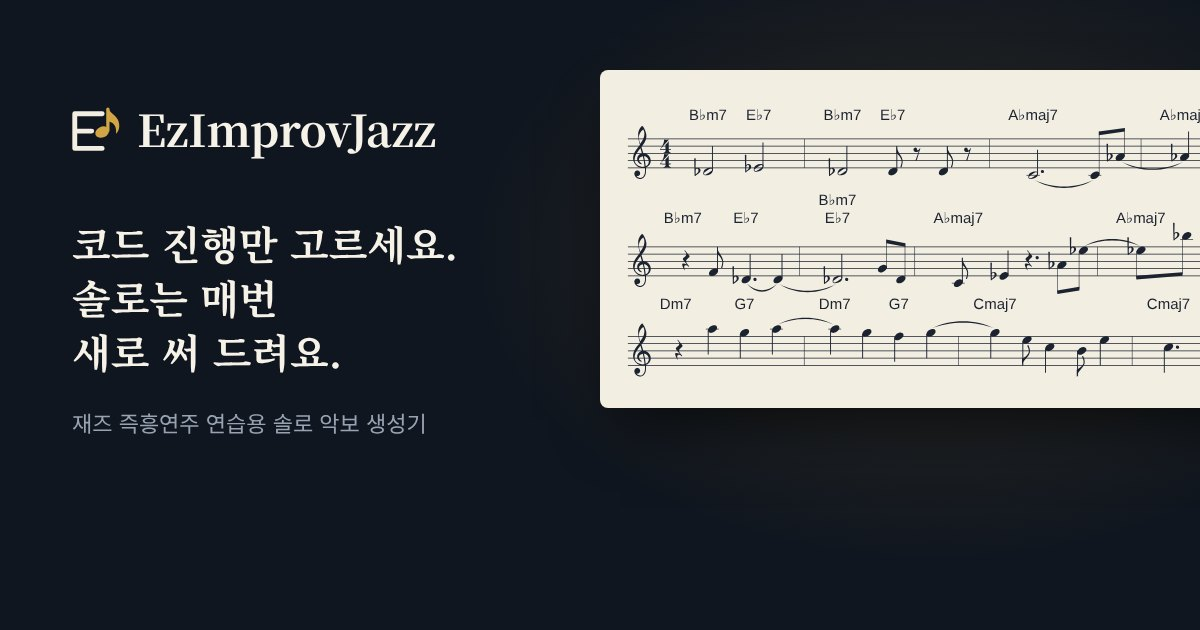
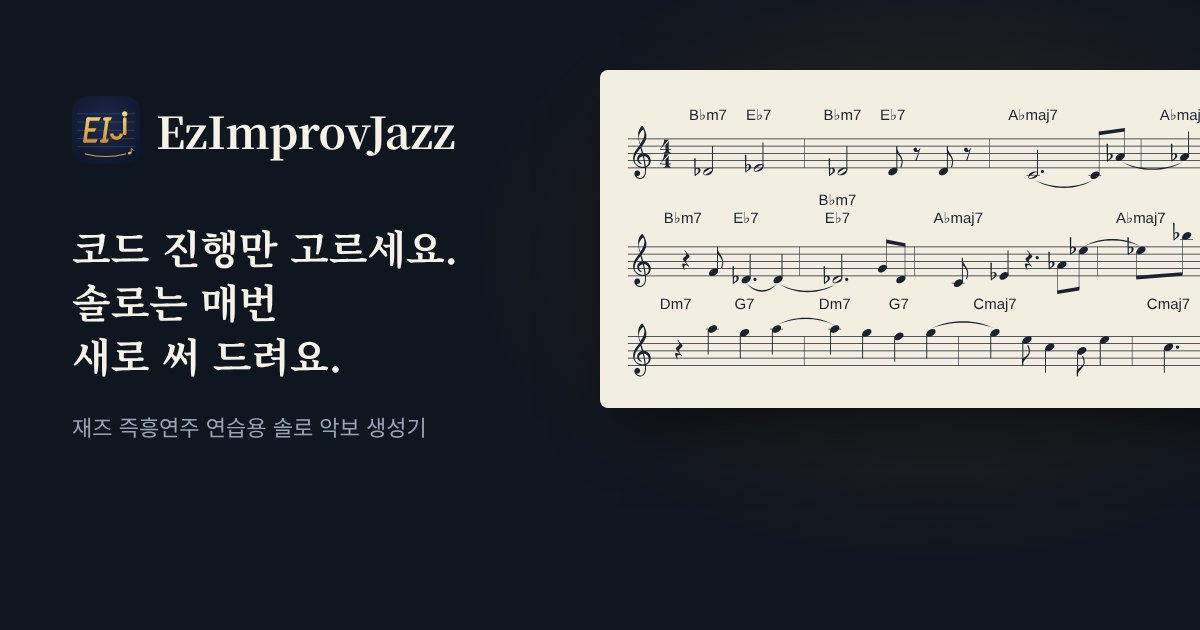
v0.58.0: 새 심볼(사용자 시안 다듬음) · 첫 화면 데모 3번 활용 스케일로
[무엇을]
- app/brand/mark.svg·app/pwa/icon.svg: 남색+놋쇠 EIJ 시안에서 E·I 8° 기울임·사선 끝, 오선 5줄 또렷하게, 작은 음표 묶음(.nt)
- 앱 머리·로딩(음표 튐)·홈 위/아래/로딩·아이콘 PNG·og.jpg 교체, 인라인 SVG 그라디언트 id 나눔
- 데모 3번 가이드톤 라인(같은 음 반복 45%) → 활용 스케일(33001)

[왜]
- 사용자: 가져온 심볼로 바꾸되 E·I에 각도·모양, 오선 더 두드러지게 / 데모 3번 GGGG만 나와 별로

[확인]
- node tools/test.js 4,752개 위반 0·오류 0 (엔진 변경 없음)
- test_landing 통과, 홈·앱·로딩·og 스크린샷 확인

Claude-Session: https://claude.ai/code/session_01MYZHQ4B8Yh6kKJJ5uNbiFu

Changed region(s): [[0.0617, 0.3619, 0.37, 0.6032], [0.0617, 0.1508, 0.4008, 0.2714], [0.0617, 0.6333, 0.37, 0.6937]]

diff --git a/index.html b/index.html
@@ -4,7 +4,7 @@
 <meta charset="UTF-8">
 <meta name="viewport" content="width=device-width, initial-scale=1.0, viewport-fit=cover">
 <!-- v0.55.0 화면 테마는 잠시 닫음(사용자 요청) — 다시 열 때 THEME_ON=true + 여기서 저장된 테마를 그리기 전에 적용 -->
-<title>EzImprovJazz v0.57.0 — 즉흥 재즈 솔로 연습 악보</title>
+<title>EzImprovJazz v0.58.0 — 즉흥 재즈 솔로 연습 악보</title>
 <link rel="preconnect" href="https://fonts.googleapis.com">
 <link rel="preconnect" href="https://fonts.gstatic.com" crossorigin>
 <link href="https://fonts.googleapis.com/css2?family=Gowun+Batang:wght@400;700&family=Gowun+Dodum&family=IBM+Plex+Sans+KR:wght@300;400;500;600&family=JetBrains+Mono:wght@400;600&display=swap" rel="stylesheet">
@@ -661,8 +661,7 @@ header.site .sub{font-size:13.5px;max-width:none}
 h1.brand{font-family:'Gowun Batang',serif;letter-spacing:-.01em}
 .brandlink{display:inline-flex;align-items:center;gap:.42em;color:inherit;text-decoration:none}
 a.brandlink[href]:hover span{text-decoration:underline;text-decoration-color:var(--brass);text-underline-offset:.18em}
-.bmark{height:1.05em;width:auto;flex:none;transform:translateY(-.04em)}
-.bmark g,.bootmark g{stroke:var(--hi)}
+.bmark{height:1.2em;width:auto;flex:none;transform:translateY(-.02em)}
 /* v0.57 홈페이지 연주 데모(app/#embed-demo) — 악보 한 장만, 재생 + 다른 솔로 */
 .embctl{display:none}
 html.embed body{background:var(--paper)}
@@ -676,9 +675,9 @@ html.embed #fsPlay{min-width:48px;min-height:36px;font-size:15px;background:var(
 .boot{position:fixed;inset:0;z-index:1000;display:flex;align-items:center;justify-content:center;background:var(--bg);transition:opacity .45s ease,visibility .45s}
 .boot.done{opacity:0;visibility:hidden}
 .bootin{display:flex;flex-direction:column;align-items:center;gap:14px;color:var(--hi)}
-.bootmark{width:76px;height:auto}
-.bootmark ellipse,.bootmark rect,.bootmark g~path{transform-box:view-box;transform-origin:183px 134px;animation:bootswing 1.1s ease-in-out infinite alternate}
-@keyframes bootswing{from{transform:rotate(-5deg)}to{transform:rotate(5deg)}}
+.bootmark{width:84px;height:auto}
+.bootmark .nt{animation:bootswing .55s ease-in-out infinite alternate}
+@keyframes bootswing{from{transform:translateY(0)}to{transform:translateY(-14px)}}
 .bootin b{font-family:'Gowun Batang',serif;font-size:22px;font-weight:700;letter-spacing:-.01em}
 .bootbar{width:168px;height:3px;border-radius:2px;background:rgba(209,165,69,.18);overflow:hidden}
 .bootbar i{display:block;width:40%;height:100%;border-radius:2px;background:var(--brass);animation:bootbar 1.2s ease-in-out infinite}
@@ -1244,13 +1243,13 @@ svg .abcjs-tempo{cursor:pointer}
 </style>
 </head>
 <body>
-<div class="boot" id="boot" role="status" aria-live="polite"><div class="bootin"><svg class="bootmark" aria-hidden="true" xmlns="http://www.w3.org/2000/svg" viewBox="-2 -32 300 282"><g stroke="#f3eee2" stroke-width="30" stroke-linecap="round"><path d="M15 22H183M15 128H119M15 234H183M15 22V234" fill="none"/></g><ellipse cx="183" cy="134" rx="44" ry="33" transform="rotate(-24 183 134)" fill="#d1a545"/><rect x="208" y="-16" width="20" height="150" rx="10" fill="#d1a545"/><path d="M218 -14c18 40 72 50 70 112-1 22-10 36-20 46 5-46-16-72-50-76z" fill="#d1a545"/></svg><b>EzImprovJazz</b><div class="bootbar"><i></i></div><p>악보 엔진을 준비하는 중…</p></div></div>
+<div class="boot" id="boot" role="status" aria-live="polite"><div class="bootin"><svg class="bootmark" aria-hidden="true" xmlns="http://www.w3.org/2000/svg" viewBox="0 0 512 512"><defs><linearGradient id="brassB" x1="0" y1="112" x2="0" y2="362" gradientUnits="userSpaceOnUse"><stop offset="0" stop-color="#f8d98a"/><stop offset="0.5" stop-color="#e9b44c"/><stop offset="1" stop-color="#c98a2e"/></linearGradient><radialGradient id="glowB" cx="0.5" cy="0.42" r="0.75"><stop offset="0" stop-color="#1d2a4d"/><stop offset="1" stop-color="#0d1428"/></radialGradient></defs><rect width="512" height="512" rx="112" fill="url(#glowB)"/><g stroke="#4a5d8c" stroke-width="4" stroke-linecap="round" opacity=".85"><line x1="40" y1="134" x2="472" y2="134"/><line x1="40" y1="196" x2="472" y2="196"/><line x1="40" y1="258" x2="472" y2="258"/><line x1="40" y1="320" x2="472" y2="320"/><line x1="40" y1="382" x2="472" y2="382"/></g><g fill="url(#brassB)"><g transform="translate(36 0) skewX(-8)"><rect x="96" y="160" width="26" height="192" rx="13"/><path d="M109.0,160H204L194,186H109.0A13.0,13.0 0 0 1 109.0,160Z"/><path d="M109.0,243H182L172,269H109.0A13.0,13.0 0 0 1 109.0,243Z"/><path d="M109.0,326H204L194,352H109.0A13.0,13.0 0 0 1 109.0,326Z"/></g><g transform="translate(36 0) skewX(-8)"><rect x="240" y="160" width="26" height="192" rx="13"/><path d="M222,173a13,13 0 0 1 13,-13H288L278,186H235a13,13 0 0 1 -13,-13Z"/><path d="M222,339a13,13 0 0 1 13,-13H288L278,352H235a13,13 0 0 1 -13,-13Z"/></g><rect x="384" y="160" width="26" height="136" rx="13"/><path d="M384,282 a49,49 0 0 1 -98,0 l26,0 a23,23 0 0 0 46,0 z"/><circle cx="397" cy="134" r="20"/></g><path d="M100,436 Q256,474 404,436" stroke="#e9b44c" stroke-width="8" fill="none" stroke-linecap="round" opacity="0.9"/><g class="nt"><ellipse cx="434" cy="430" rx="13" ry="10" fill="#e9b44c" transform="rotate(-18 434 430)"/><path d="M446,428 V396 Q460,400 465,409" stroke="#e9b44c" stroke-width="6" fill="none" stroke-linecap="round"/></g></svg><b>EzImprovJazz</b><div class="bootbar"><i></i></div><p>악보 엔진을 준비하는 중…</p></div></div>
 <script>setTimeout(function(){var b=document.getElementById('boot');if(b)b.classList.add('done')},8000)/* v0.56 로딩 화면 안전장치 — 무슨 일이 있어도 8초 뒤에는 걷는다 */</script>
 <header class="site">
   <div class="wrap">
-    <div class="eyebrow">즉흥 재즈 솔로 연습 · 베타 v0.57.0<button class="instbtn" id="btnInstall" hidden>📲 앱으로 설치</button></div>
+    <div class="eyebrow">즉흥 재즈 솔로 연습 · 베타 v0.58.0<button class="instbtn" id="btnInstall" hidden>📲 앱으로 설치</button></div>
     <div class="insthelp" id="instHelp" hidden></div>
-    <h1 class="brand"><a class="brandlink" id="brandLink"><svg class="bmark" aria-hidden="true" xmlns="http://www.w3.org/2000/svg" viewBox="-2 -32 300 282"><g stroke="#f3eee2" stroke-width="30" stroke-linecap="round"><path d="M15 22H183M15 128H119M15 234H183M15 22V234" fill="none"/></g><ellipse cx="183" cy="134" rx="44" ry="33" transform="rotate(-24 183 134)" fill="#d1a545"/><rect x="208" y="-16" width="20" height="150" rx="10" fill="#d1a545"/><path d="M218 -14c18 40 72 50 70 112-1 22-10 36-20 46 5-46-16-72-50-76z" fill="#d1a545"/></svg><span>EzImprovJazz</span></a></h1>
+    <h1 class="brand"><a class="brandlink" id="brandLink"><svg class="bmark" aria-hidden="true" xmlns="http://www.w3.org/2000/svg" viewBox="0 0 512 512"><defs><linearGradient id="brassH" x1="0" y1="112" x2="0" y2="362" gradientUnits="userSpaceOnUse"><stop offset="0" stop-color="#f8d98a"/><stop offset="0.5" stop-color="#e9b44c"/><stop offset="1" stop-color="#c98a2e"/></linearGradient><radialGradient id="glowH" cx="0.5" cy="0.42" r="0.75"><stop offset="0" stop-color="#1d2a4d"/><stop offset="1" stop-color="#0d1428"/></radialGradient></defs><rect width="512" height="512" rx="112" fill="url(#glowH)"/><g stroke="#4a5d8c" stroke-width="4" stroke-linecap="round" opacity=".85"><line x1="40" y1="134" x2="472" y2="134"/><line x1="40" y1="196" x2="472" y2="196"/><line x1="40" y1="258" x2="472" y2="258"/><line x1="40" y1="320" x2="472" y2="320"/><line x1="40" y1="382" x2="472" y2="382"/></g><g fill="url(#brassH)"><g transform="translate(36 0) skewX(-8)"><rect x="96" y="160" width="26" height="192" rx="13"/><path d="M109.0,160H204L194,186H109.0A13.0,13.0 0 0 1 109.0,160Z"/><path d="M109.0,243H182L172,269H109.0A13.0,13.0 0 0 1 109.0,243Z"/><path d="M109.0,326H204L194,352H109.0A13.0,13.0 0 0 1 109.0,326Z"/></g><g transform="translate(36 0) skewX(-8)"><rect x="240" y="160" width="26" height="192" rx="13"/><path d="M222,173a13,13 0 0 1 13,-13H288L278,186H235a13,13 0 0 1 -13,-13Z"/><path d="M222,339a13,13 0 0 1 13,-13H288L278,352H235a13,13 0 0 1 -13,-13Z"/></g><rect x="384" y="160" width="26" height="136" rx="13"/><path d="M384,282 a49,49 0 0 1 -98,0 l26,0 a23,23 0 0 0 46,0 z"/><circle cx="397" cy="134" r="20"/></g><path d="M100,436 Q256,474 404,436" stroke="#e9b44c" stroke-width="8" fill="none" stroke-linecap="round" opacity="0.9"/><g class="nt"><ellipse cx="434" cy="430" rx="13" ry="10" fill="#e9b44c" transform="rotate(-18 434 430)"/><path d="M446,428 V396 Q460,400 465,409" stroke="#e9b44c" stroke-width="6" fill="none" stroke-linecap="round"/></g></svg><span>EzImprovJazz</span></a></h1>
     <p class="sub">재즈 스탠더드 <b style="color:var(--brass);font-weight:500">261곡</b>의 코드 진행 위에 매번 새로운 연습용 솔로를 만듭니다. 곡 검색 · 아티스트 스타일 · 반음 단위 조 변환을 지원합니다.</p>
   </div>
 </header>
@@ -6322,9 +6321,10 @@ function syncNow(){
 gen();syncNow();syncPlay();
 /* ── v0.57 홈페이지 연주 데모 — 홈 첫 화면 iframe(app/#embed-demo) 안에서 돈다 ──
    Tea for Two(퍼블릭 도메인 · 코드 진행만) 120 BPM 1코러스, 반주 포함. 데모 5개(난이도 × 연습 주제, 시드 고정)를 넘겨 보고,
+   v0.58: 3번 가이드톤 라인 → 활용 스케일(가이드톤은 같은 음 되풀이가 45%라 첫인상에 맞지 않음 — 엔진 과제로 남김),
    한 곡이 끝나면 다음 데모로 이어서 재생(BGM처럼). 기기 저장소는 건드리지 않는다(설정은 저장되지 않음 · 계정 동기화 끔) */
 const EMB_SONG='pd-tea-for-two',EMB_BPM=120,EMB_TONE='tenor',EMB_GAP_MS=900;
-const EMB_DEMOS=[{d:1,tp:'ct',sd:12001},{d:2,tp:'auto',sd:22002},{d:2,tp:'gt',sd:32003},{d:2,tp:'penta',sd:42004},{d:3,tp:'auto',sd:52005}];
+const EMB_DEMOS=[{d:1,tp:'ct',sd:12001},{d:2,tp:'auto',sd:22002},{d:2,tp:'dom',sd:33001},{d:2,tp:'penta',sd:42004},{d:3,tp:'auto',sd:52005}];
 const EMB_TP_L={auto:'자유',ct:'코드톤 라인',gt:'가이드톤 라인',penta:'펜타토닉',scale:'기본 스케일',dom:'활용 스케일'};
 if(location.hash==='#embed-demo'&&SONGDB[EMB_SONG]){
   document.documentElement.classList.add('embed');

diff --git a/app/template.html b/app/template.html
@@ -5,7 +5,7 @@
 <meta name="viewport" content="width=device-width, initial-scale=1.0, viewport-fit=cover">
 <!-- v0.55.0 화면 테마는 잠시 닫음(사용자 요청) — 다시 열 때 THEME_ON=true + 여기서 저장된 테마를 그리기 전에 적용 -->
 <!--__PWA_HEAD__-->
-<title>EzImprovJazz v0.57.0 — 즉흥 재즈 솔로 연습 악보</title>
+<title>EzImprovJazz v0.58.0 — 즉흥 재즈 솔로 연습 악보</title>
 <link rel="preconnect" href="https://fonts.googleapis.com">
 <link rel="preconnect" href="https://fonts.gstatic.com" crossorigin>
 <link href="https://fonts.googleapis.com/css2?family=Gowun+Batang:wght@400;700&family=Gowun+Dodum&family=IBM+Plex+Sans+KR:wght@300;400;500;600&family=JetBrains+Mono:wght@400;600&display=swap" rel="stylesheet">
@@ -342,8 +342,7 @@ header.site .sub{font-size:13.5px;max-width:none}
 h1.brand{font-family:'Gowun Batang',serif;letter-spacing:-.01em}
 .brandlink{display:inline-flex;align-items:center;gap:.42em;color:inherit;text-decoration:none}
 a.brandlink[href]:hover span{text-decoration:underline;text-decoration-color:var(--brass);text-underline-offset:.18em}
-.bmark{height:1.05em;width:auto;flex:none;transform:translateY(-.04em)}
-.bmark g,.bootmark g{stroke:var(--hi)}
+.bmark{height:1.2em;width:auto;flex:none;transform:translateY(-.02em)}
 /* v0.57 홈페이지 연주 데모(app/#embed-demo) — 악보 한 장만, 재생 + 다른 솔로 */
 .embctl{display:none}
 html.embed body{background:var(--paper)}
@@ -357,9 +356,9 @@ html.embed #fsPlay{min-width:48px;min-height:36px;font-size:15px;background:var(
 .boot{position:fixed;inset:0;z-index:1000;display:flex;align-items:center;justify-content:center;background:var(--bg);transition:opacity .45s ease,visibility .45s}
 .boot.done{opacity:0;visibility:hidden}
 .bootin{display:flex;flex-direction:column;align-items:center;gap:14px;color:var(--hi)}
-.bootmark{width:76px;height:auto}
-.bootmark ellipse,.bootmark rect,.bootmark g~path{transform-box:view-box;transform-origin:183px 134px;animation:bootswing 1.1s ease-in-out infinite alternate}
-@keyframes bootswing{from{transform:rotate(-5deg)}to{transform:rotate(5deg)}}
+.bootmark{width:84px;height:auto}
+.bootmark .nt{animation:bootswing .55s ease-in-out infinite alternate}
+@keyframes bootswing{from{transform:translateY(0)}to{transform:translateY(-14px)}}
 .bootin b{font-family:'Gowun Batang',serif;font-size:22px;font-weight:700;letter-spacing:-.01em}
 .bootbar{width:168px;height:3px;border-radius:2px;background:rgba(209,165,69,.18);overflow:hidden}
 .bootbar i{display:block;width:40%;height:100%;border-radius:2px;background:var(--brass);animation:bootbar 1.2s ease-in-out infinite}
@@ -925,13 +924,13 @@ svg .abcjs-tempo{cursor:pointer}
 </style>
 </head>
 <body>
-<div class="boot" id="boot" role="status" aria-live="polite"><div class="bootin"><svg class="bootmark" aria-hidden="true" xmlns="http://www.w3.org/2000/svg" viewBox="-2 -32 300 282"><g stroke="#f3eee2" stroke-width="30" stroke-linecap="round"><path d="M15 22H183M15 128H119M15 234H183M15 22V234" fill="none"/></g><ellipse cx="183" cy="134" rx="44" ry="33" transform="rotate(-24 183 134)" fill="#d1a545"/><rect x="208" y="-16" width="20" height="150" rx="10" fill="#d1a545"/><path d="M218 -14c18 40 72 50 70 112-1 22-10 36-20 46 5-46-16-72-50-76z" fill="#d1a545"/></svg><b>EzImprovJazz</b><div class="bootbar"><i></i></div><p>악보 엔진을 준비하는 중…</p></div></div>
+<div class="boot" id="boot" role="status" aria-live="polite"><div class="bootin"><svg class="bootmark" aria-hidden="true" xmlns="http://www.w3.org/2000/svg" viewBox="0 0 512 512"><defs><linearGradient id="brassB" x1="0" y1="112" x2="0" y2="362" gradientUnits="userSpaceOnUse"><stop offset="0" stop-color="#f8d98a"/><stop offset="0.5" stop-color="#e9b44c"/><stop offset="1" stop-color="#c98a2e"/></linearGradient><radialGradient id="glowB" cx="0.5" cy="0.42" r="0.75"><stop offset="0" stop-color="#1d2a4d"/><stop offset="1" stop-color="#0d1428"/></radialGradient></defs><rect width="512" height="512" rx="112" fill="url(#glowB)"/><g stroke="#4a5d8c" stroke-width="4" stroke-linecap="round" opacity=".85"><line x1="40" y1="134" x2="472" y2="134"/><line x1="40" y1="196" x2="472" y2="196"/><line x1="40" y1="258" x2="472" y2="258"/><line x1="40" y1="320" x2="472" y2="320"/><line x1="40" y1="382" x2="472" y2="382"/></g><g fill="url(#brassB)"><g transform="translate(36 0) skewX(-8)"><rect x="96" y="160" width="26" height="192" rx="13"/><path d="M109.0,160H204L194,186H109.0A13.0,13.0 0 0 1 109.0,160Z"/><path d="M109.0,243H182L172,269H109.0A13.0,13.0 0 0 1 109.0,243Z"/><path d="M109.0,326H204L194,352H109.0A13.0,13.0 0 0 1 109.0,326Z"/></g><g transform="translate(36 0) skewX(-8)"><rect x="240" y="160" width="26" height="192" rx="13"/><path d="M222,173a13,13 0 0 1 13,-13H288L278,186H235a13,13 0 0 1 -13,-13Z"/><path d="M222,339a13,13 0 0 1 13,-13H288L278,352H235a13,13 0 0 1 -13,-13Z"/></g><rect x="384" y="160" width="26" height="136" rx="13"/><path d="M384,282 a49,49 0 0 1 -98,0 l26,0 a23,23 0 0 0 46,0 z"/><circle cx="397" cy="134" r="20"/></g><path d="M100,436 Q256,474 404,436" stroke="#e9b44c" stroke-width="8" fill="none" stroke-linecap="round" opacity="0.9"/><g class="nt"><ellipse cx="434" cy="430" rx="13" ry="10" fill="#e9b44c" transform="rotate(-18 434 430)"/><path d="M446,428 V396 Q460,400 465,409" stroke="#e9b44c" stroke-width="6" fill="none" stroke-linecap="round"/></g></svg><b>EzImprovJazz</b><div class="bootbar"><i></i></div><p>악보 엔진을 준비하는 중…</p></div></div>
 <script>setTimeout(function(){var b=document.getElementById('boot');if(b)b.classList.add('done')},8000)/* v0.56 로딩 화면 안전장치 — 무슨 일이 있어도 8초 뒤에는 걷는다 */</script>
 <header class="site">
   <div class="wrap">
-    <div class="eyebrow">즉흥 재즈 솔로 연습 · 베타 v0.57.0<button class="instbtn" id="btnInstall" hidden>📲 앱으로 설치</button></div>
+    <div class="eyebrow">즉흥 재즈 솔로 연습 · 베타 v0.58.0<button class="instbtn" id="btnInstall" hidden>📲 앱으로 설치</button></div>
     <div class="insthelp" id="instHelp" hidden></div>
-    <h1 class="brand"><a class="brandlink" id="brandLink"><svg class="bmark" aria-hidden="true" xmlns="http://www.w3.org/2000/svg" viewBox="-2 -32 300 282"><g stroke="#f3eee2" stroke-width="30" stroke-linecap="round"><path d="M15 22H183M15 128H119M15 234H183M15 22V234" fill="none"/></g><ellipse cx="183" cy="134" rx="44" ry="33" transform="rotate(-24 183 134)" fill="#d1a545"/><rect x="208" y="-16" width="20" height="150" rx="10" fill="#d1a545"/><path d="M218 -14c18 40 72 50 70 112-1 22-10 36-20 46 5-46-16-72-50-76z" fill="#d1a545"/></svg><span>EzImprovJazz</span></a></h1>
+    <h1 class="brand"><a class="brandlink" id="brandLink"><svg class="bmark" aria-hidden="true" xmlns="http://www.w3.org/2000/svg" viewBox="0 0 512 512"><defs><linearGradient id="brassH" x1="0" y1="112" x2="0" y2="362" gradientUnits="userSpaceOnUse"><stop offset="0" stop-color="#f8d98a"/><stop offset="0.5" stop-color="#e9b44c"/><stop offset="1" stop-color="#c98a2e"/></linearGradient><radialGradient id="glowH" cx="0.5" cy="0.42" r="0.75"><stop offset="0" stop-color="#1d2a4d"/><stop offset="1" stop-color="#0d1428"/></radialGradient></defs><rect width="512" height="512" rx="112" fill="url(#glowH)"/><g stroke="#4a5d8c" stroke-width="4" stroke-linecap="round" opacity=".85"><line x1="40" y1="134" x2="472" y2="134"/><line x1="40" y1="196" x2="472" y2="196"/><line x1="40" y1="258" x2="472" y2="258"/><line x1="40" y1="320" x2="472" y2="320"/><line x1="40" y1="382" x2="472" y2="382"/></g><g fill="url(#brassH)"><g transform="translate(36 0) skewX(-8)"><rect x="96" y="160" width="26" height="192" rx="13"/><path d="M109.0,160H204L194,186H109.0A13.0,13.0 0 0 1 109.0,160Z"/><path d="M109.0,243H182L172,269H109.0A13.0,13.0 0 0 1 109.0,243Z"/><path d="M109.0,326H204L194,352H109.0A13.0,13.0 0 0 1 109.0,326Z"/></g><g transform="translate(36 0) skewX(-8)"><rect x="240" y="160" width="26" height="192" rx="13"/><path d="M222,173a13,13 0 0 1 13,-13H288L278,186H235a13,13 0 0 1 -13,-13Z"/><path d="M222,339a13,13 0 0 1 13,-13H288L278,352H235a13,13 0 0 1 -13,-13Z"/></g><rect x="384" y="160" width="26" height="136" rx="13"/><path d="M384,282 a49,49 0 0 1 -98,0 l26,0 a23,23 0 0 0 46,0 z"/><circle cx="397" cy="134" r="20"/></g><path d="M100,436 Q256,474 404,436" stroke="#e9b44c" stroke-width="8" fill="none" stroke-linecap="round" opacity="0.9"/><g class="nt"><ellipse cx="434" cy="430" rx="13" ry="10" fill="#e9b44c" transform="rotate(-18 434 430)"/><path d="M446,428 V396 Q460,400 465,409" stroke="#e9b44c" stroke-width="6" fill="none" stroke-linecap="round"/></g></svg><span>EzImprovJazz</span></a></h1>
     <p class="sub">재즈 스탠더드 <b style="color:var(--brass);font-weight:500">261곡</b>의 코드 진행 위에 매번 새로운 연습용 솔로를 만듭니다. 곡 검색 · 아티스트 스타일 · 반음 단위 조 변환을 지원합니다.</p>
   </div>
 </header>
@@ -3274,9 +3273,10 @@ function syncNow(){
 gen();syncNow();syncPlay();
 /* ── v0.57 홈페이지 연주 데모 — 홈 첫 화면 iframe(app/#embed-demo) 안에서 돈다 ──
    Tea for Two(퍼블릭 도메인 · 코드 진행만) 120 BPM 1코러스, 반주 포함. 데모 5개(난이도 × 연습 주제, 시드 고정)를 넘겨 보고,
+   v0.58: 3번 가이드톤 라인 → 활용 스케일(가이드톤은 같은 음 되풀이가 45%라 첫인상에 맞지 않음 — 엔진 과제로 남김),
    한 곡이 끝나면 다음 데모로 이어서 재생(BGM처럼). 기기 저장소는 건드리지 않는다(설정은 저장되지 않음 · 계정 동기화 끔) */
 const EMB_SONG='pd-tea-for-two',EMB_BPM=120,EMB_TONE='tenor',EMB_GAP_MS=900;
-const EMB_DEMOS=[{d:1,tp:'ct',sd:12001},{d:2,tp:'auto',sd:22002},{d:2,tp:'gt',sd:32003},{d:2,tp:'penta',sd:42004},{d:3,tp:'auto',sd:52005}];
+const EMB_DEMOS=[{d:1,tp:'ct',sd:12001},{d:2,tp:'auto',sd:22002},{d:2,tp:'dom',sd:33001},{d:2,tp:'penta',sd:42004},{d:3,tp:'auto',sd:52005}];
 const EMB_TP_L={auto:'자유',ct:'코드톤 라인',gt:'가이드톤 라인',penta:'펜타토닉',scale:'기본 스케일',dom:'활용 스케일'};
 if(location.hash==='#embed-demo'&&SONGDB[EMB_SONG]){
   document.documentElement.classList.add('embed');

diff --git a/app/landing/index.html b/app/landing/index.html
@@ -56,7 +56,7 @@ h1,h2,h3{font-family:var(--serif);font-weight:700;color:#f6f2e8;letter-spacing:-
 .top.scrolled{border-bottom-color:var(--line)}
 .topin{display:flex;align-items:center;gap:12px;min-height:64px;padding-top:env(safe-area-inset-top)}
 .brand{display:inline-flex;align-items:center;gap:10px;text-decoration:none;font:700 21px/1 var(--serif);color:#f6f2e8;letter-spacing:-.01em;margin-right:auto}
-.brand svg{height:26px;width:auto}
+.brand svg{height:32px;width:auto}
 .who{font-size:13.5px;color:var(--fog);max-width:22ch;overflow:hidden;text-overflow:ellipsis;white-space:nowrap}
 .topin .btn{min-height:40px;padding:0 16px;font-size:14.5px}
 
@@ -145,7 +145,7 @@ h1,h2,h3{font-family:var(--serif);font-weight:700;color:#f6f2e8;letter-spacing:-
 .foot{padding:44px 0 calc(44px + env(safe-area-inset-bottom));border-top:1px solid var(--line);color:var(--fog);font-size:14px}
 .footin{display:flex;flex-wrap:wrap;gap:16px 40px;justify-content:space-between}
 .foot .brand{font-size:17px;margin:0 0 8px}
-.foot .brand svg{height:20px}
+.foot .brand svg{height:24px}
 .foot ul{list-style:none;margin:0;padding:0;display:flex;flex-wrap:wrap;gap:6px 22px}
 .foot p{margin:4px 0 0}
 
@@ -171,9 +171,9 @@ dialog.login::backdrop{background:rgba(5,8,12,.66)}
 .boot{position:fixed;inset:0;z-index:100;display:flex;align-items:center;justify-content:center;background:var(--night);opacity:0;visibility:hidden;transition:opacity .2s,visibility .2s}
 .boot.on{opacity:1;visibility:visible}
 .bootin{display:flex;flex-direction:column;align-items:center;gap:14px;color:#f6f2e8}
-.bootin svg{width:76px;height:auto}
-.bootin svg ellipse,.bootin svg rect,.bootin svg g~path{transform-box:view-box;transform-origin:183px 134px;animation:bootswing 1.1s ease-in-out infinite alternate}
-@keyframes bootswing{from{transform:rotate(-5deg)}to{transform:rotate(5deg)}}
+.bootin svg{width:84px;height:auto}
+.bootin svg .nt{animation:bootswing .55s ease-in-out infinite alternate}
+@keyframes bootswing{from{transform:translateY(0)}to{transform:translateY(-14px)}}
 .bootin b{font:700 22px/1 'Gowun Batang',serif;letter-spacing:-.01em}
 .bootbar{width:168px;height:3px;border-radius:2px;background:rgba(209,165,69,.18);overflow:hidden}
 .bootbar i{display:block;width:40%;height:100%;border-radius:2px;background:var(--brass);animation:bootbar 1.2s ease-in-out infinite}

diff --git a/tools/make_og.js b/tools/make_og.js
@@ -34,7 +34,7 @@ const PICKS=[[2,22002]];   /* [난이도, 시드] — 앱 데모(EMB_DEMOS) 2번
   await og.setContent(`<html><body style="margin:0;width:1200px;height:630px;overflow:hidden;background:#10161f;font-family:'Noto Serif CJK KR',serif;color:#f6f2e8">
     <div style="position:absolute;inset:0;background:radial-gradient(55% 70% at 78% 40%,rgba(209,165,69,.16),transparent 70%)"></div>
     <div style="position:absolute;left:72px;top:96px;width:470px">
-      <div style="display:flex;align-items:center;gap:16px;font-size:44px;font-weight:700;letter-spacing:-.01em">${mark.replace('<svg ','<svg style="height:46px;width:auto" ')}EzImprovJazz</div>
+      <div style="display:flex;align-items:center;gap:16px;font-size:44px;font-weight:700;letter-spacing:-.01em">${mark.replace('<svg ','<svg style="height:68px;width:auto" ')}EzImprovJazz</div>
       <div style="margin-top:56px;font-size:40px;line-height:1.35;font-weight:700">코드 진행만 고르세요.<br>솔로는 매번<br>새로 써 드려요.</div>
       <div style="margin-top:28px;font-size:22px;color:#97a3b3;font-family:'Noto Sans CJK KR',sans-serif">재즈 즉흥연주 연습용 솔로 악보 생성기</div>
     </div>

diff --git a/tools/make_icons.js b/tools/make_icons.js
@@ -13,7 +13,7 @@ const svg=fs.readFileSync(path.join(root,'app/pwa/icon.svg'),'utf8');
   for(const [name,px,scale] of jobs){
     const p=await b.newPage({viewport:{width:px,height:px}});
     const inner=Math.round(px*scale),off=Math.round((px-inner)/2);
-    await p.setContent('<html><body style="margin:0;background:#10161f"><div style="position:absolute;left:'+off+'px;top:'+off+'px;width:'+inner+'px;height:'+inner+'px">'+svg.replace('<svg ','<svg width="'+inner+'" height="'+inner+'" ')+'</div></body></html>');
+    await p.setContent('<html><body style="margin:0;background:#0d1428"><div style="position:absolute;left:'+off+'px;top:'+off+'px;width:'+inner+'px;height:'+inner+'px">'+svg.replace('<svg ','<svg width="'+inner+'" height="'+inner+'" ')+'</div></body></html>');
     await p.screenshot({path:path.join(dir,name)});await p.close();
   }
   await b.close();console.log('icons →',dir);

diff --git a/tools/build.py b/tools/build.py
@@ -132,13 +132,15 @@ if '--web' in sys.argv:
     open(os.path.join(wd,'app','index.html'),'w',encoding='utf-8').write(web)
     ld=os.path.join(root,'app','landing')
     land=open(os.path.join(ld,'index.html'),encoding='utf-8').read()
-    mark=re.sub(r'\s*<!--.*?-->','',open(os.path.join(root,'app','brand','mark.svg'),encoding='utf-8').read())
+    mark=re.sub(r'\s*<!--.*?-->','',open(os.path.join(root,'app','brand','mark.svg'),encoding='utf-8').read(),flags=re.S)
     mark=re.sub(r'\n\s*','',mark).strip().replace('<svg ','<svg aria-hidden="true" ')
     def lrep(old,new,n=1):
         global land
         if land.count(old)!=n: raise RuntimeError('홈페이지 마커를 찾지 못했습니다 — '+old)
         land=land.replace(old,new)
-    lrep('<!--__MARK__-->',mark,3)
+    # v0.58 심볼을 세 번 넣는다(위·아래·로딩) — 그라디언트 id가 겹치지 않게 차례로 글자를 붙인다
+    if land.count('<!--__MARK__-->')!=3: raise RuntimeError('홈페이지 심볼 마커는 3개여야 합니다')
+    for k in range(3): land=land.replace('<!--__MARK__-->',re.sub(r'(id="|url\(#)(brass|glow)',lambda m:m.group(1)+m.group(2)+str(k),mark),1)
     lrep('/*__SB_CONFIG__*/null','/*__SB_CONFIG__*/'+(json.dumps(sb_cfg) if sb_cfg else 'null'))
     lrep('</head>','<meta name="robots" content="noindex,nofollow">\n</head>')   # 공개 출시(개인정보처리방침·약관 게시) 전까지
     open(os.path.join(wd,'index.html'),'w',encoding='utf-8').write(land)

diff --git a/README.md b/README.md
@@ -5,12 +5,13 @@
 코드 진행을 고르면 **매번 새로운** 연습용 즉흥 솔로 악보를 만들어 주고, 반주와 함께 들려 주는 단일 HTML 웹앱.
 규칙 기반 엔진이 **Weimar Jazz Database 실측 통계**를 확률로 사용해 "사람 같은" 라인을 만든다.
 
-수정 작업 버전 **v0.57.0 "EzImprovJazz"**. 배포 여부와 검증 결과는 별도로 확인해야 한다. 버전 이력 전체는 [CHANGELOG.md](CHANGELOG.md), 되돌릴 수 있는 시점은 [CHECKPOINTS.md](CHECKPOINTS.md)에 있다 — 이 README에는 현재 기능 요약만 둔다.
+수정 작업 버전 **v0.58.0 "EzImprovJazz"**. 배포 여부와 검증 결과는 별도로 확인해야 한다. 버전 이력 전체는 [CHANGELOG.md](CHANGELOG.md), 되돌릴 수 있는 시점은 [CHECKPOINTS.md](CHECKPOINTS.md)에 있다 — 이 README에는 현재 기능 요약만 둔다.
 
 > 마스터 기획안: [docs/blueprint-v1.0.pdf](docs/blueprint-v1.0.pdf) — 프로젝트 전체 로드맵(v1~v4), ML·RAG 확장 설계, 비용·법무 프레임.
 
 ## 주요 기능
 
+- **v0.58 EzImprovJazz**: 새 심볼(기울인 E·I + 음표 J, 또렷한 오선) · 첫 화면 데모 3번을 활용 스케일로
 - **v0.57 EzImprovJazz**: 홈 첫 화면에서 Tea for Two 실제 연주 데모(5개, 이어 재생) · 앱 새로고침 → 홈 · iReal Pro 포럼 곡 받기 안내 · 연습 기능 소개 · 홈에서 비밀번호 바꾸기
 - **v0.56 EzImprovJazz**: 이름·심볼을 EzImprovJazz로 · 홈페이지(ezimprovjazz.com — 예시 솔로·로그인·「프로그램 실행」) · 앱 로딩 화면
 - **v0.55 Clu**: 계정(테스트) — Supabase 로그인, 내 곡·즐겨찾기·저장한 솔로·보관한 마디 기기 간 동기화(?beta=1)

diff --git a/CHANGELOG.md b/CHANGELOG.md
@@ -1,3 +1,12 @@
+## v0.58.0 "EzImprovJazz" (2026-11-13) — 새 심볼 · 첫 화면 데모 3번 교체
+
+- **심볼 교체**: 사용자가 가져온 시안(밤 남색 바탕 + 놋쇠 그라디언트 EIJ, 아래 스윙 곡선과 8분음표)을 다듬음.
+  - E·I를 8° 기울이고 가로획 끝을 비스듬히 잘라 움직임을 줌(J는 음표처럼 똑바로, 점은 맨 윗줄 위 음표 머리).
+  - 오선을 4줄 → 5줄, 더 굵고 밝게(#2a3757 2px → #4a5d8c 4px).
+  - 앱 머리·로딩 화면(작은 음표가 통통 튐)·홈페이지 위/아래·파비콘·앱 아이콘(PWA·안드로이드)·링크 미리보기 그림 모두 바꿈. 한 페이지에 여러 번 넣어도 그라디언트가 섞이지 않게 id를 나눔.
+- **첫 화면 데모 3번**: 난이도 2 가이드톤 라인 → 난이도 2 **활용 스케일**(시드 33001). 가이드톤 라인은 Tea for Two에서 같은 음 되풀이가 42~61%(G G G…)라 첫인상에 맞지 않음 — **엔진 과제로 남김**(가이드톤 주제에서 같은 음을 이어 칠 때 붙임줄·긴 음으로 묶기 등).
+- 확인: `node tools/test.js` 4,752개 위반 0·오류 0(엔진 변경 없음) · `tools/test_landing.mjs` 통과 · 홈·앱 머리·로딩·og 화면 확인.
+
 ## v0.57.0 "EzImprovJazz" (2026-11-13) — 홈 첫 화면 연주 데모 · 새로고침하면 홈 · 곡 받기 안내 · 연습 기능 소개
 
 - **첫 화면에서 실제로 연주**: 홈의 악보 자리에 앱을 그대로 띄움(`app/#embed-demo`, iframe). Tea for Two(퍼블릭 도메인 · 코드 진행만) 120 BPM, 반주 포함, 테너 색소폰.
